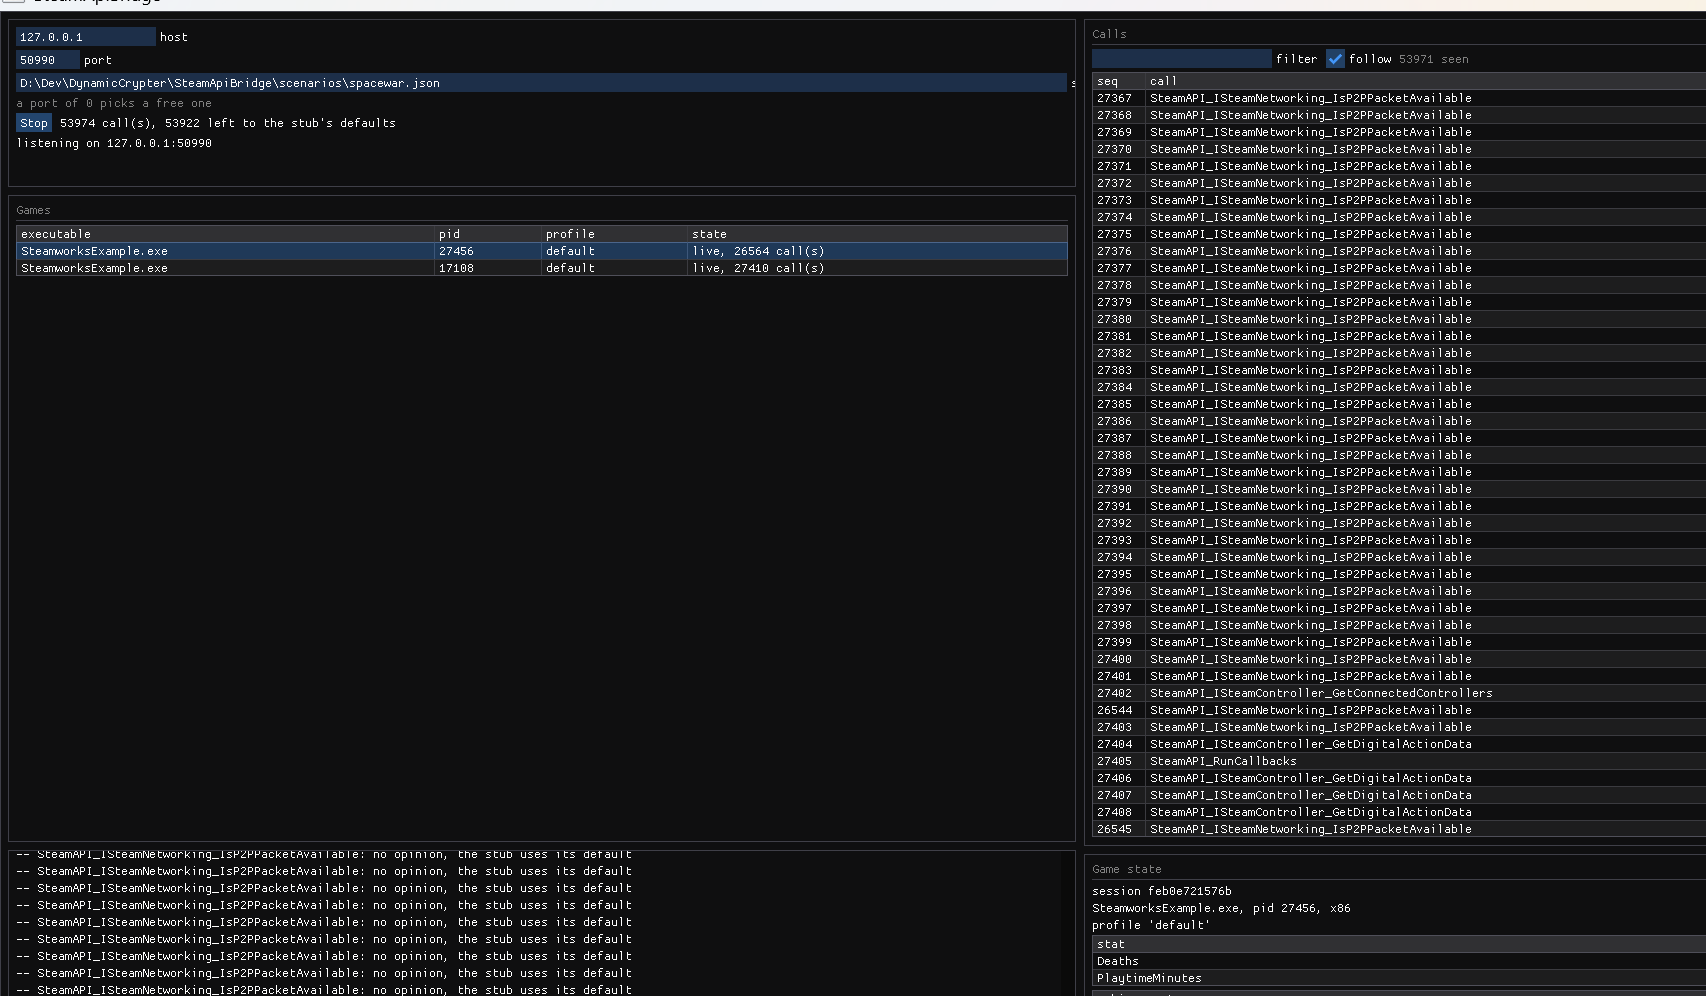
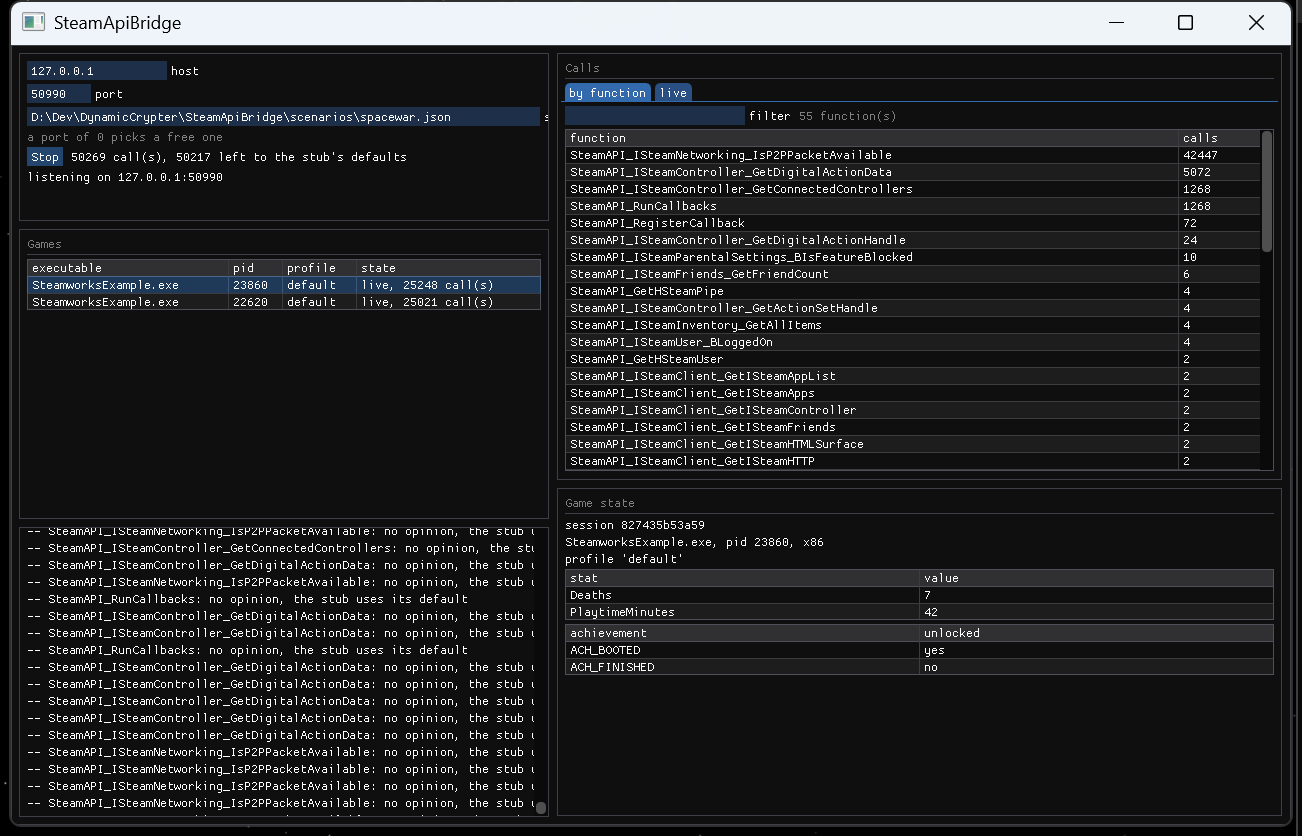
Count the calls in the window, beside the list of them
The live list is the wrong first view of a game that polls. Spacewar at its menu made 60,634 calls in fifteen seconds, and 42,447 of them were one call asking whether a P2P packet had arrived - so the calls worth reading were a page of scrolling apart from each other. The Calls panel has two tabs now. "by function" counts the calls the game has made, most-called first, with the answered / left-to-the-stub split and the mean time in the row's tooltip rather than in columns of their own; "live" is the call-by-call list exactly as it was. One filter box serves both.

The count is kept as the calls arrive rather than recomputed from the history every frame: a tally that walks the history is a tally that gets slower the longer the game runs, and this history grows without bound. It is re-sorted only when a count changes, so the window is not sorting a few hundred names sixty times a second to draw the same order.

The front-page image is a real Spacewar run again, this time with the tabs - the one it replaces showed a panel that no longer exists - and the README says what the two views are.

Changed region(s): [[0.0, 0.0, 1.0, 1.0], [0.3072, 0.622, 0.3994, 0.6842], [0.3072, 0.7153, 0.3379, 0.7464]]

diff --git a/src/gui_main.cpp b/src/gui_main.cpp
@@ -14,6 +14,12 @@
 //  whatever is left, which means no panel can be clipped by the window size or
 //  by the display's scaling.
 //
+//  The calls have two views, because one game in its own loop is enough to make
+//  the other one useless: a frame that polls a call that nobody answers buries
+//  everything else, and the first thing anyone wants is the shape rather than
+//  the sequence. "by function" counts what the game asks for, most-called first;
+//  "live" is the call-by-call list it scrolls past.
+//
 //  Build it with -DSTEAMBRIDGE_BUILD_GUI=ON (see README, "The live view").
 // ---------------------------------------------------------------------------
 
@@ -21,6 +27,7 @@
 #include <cstddef>
 #include <cstdint>
 #include <cstdio>
+#include <map>
 #include <memory>
 #include <mutex>
 #include <string>
@@ -79,6 +86,18 @@ void panel_header(const char* title) {
     ImGui::TextDisabled("%s", title);
     ImGui::Separator();
 }
+
+// How often one call has been seen, and how much of it was answered. Kept as the
+// calls arrive rather than counted from the history, because the history grows
+// without bound while a game runs - and the panel that shows this is the one
+// that has to stay usable when a game has made tens of thousands of calls.
+struct CallTally {
+    std::size_t calls = 0;
+    std::size_t answered = 0;
+    double total_ms = 0.0;
+};
+
+using CallTallies = std::map<std::string, CallTally>;
 
 // ---------------------------------------------------------------------------
 //  The window's state: the server, what it has told us so far, and what the
@@ -209,6 +228,9 @@ private:
         // A new server means a new history.
         _calls.clear();
         _shown.clear();
+        _tallies.clear();
+        _function_order.clear();
+        _tallies_dirty = false;
         _seen = 0;
         _games.clear();
         _selected.clear();
@@ -241,7 +263,16 @@ private:
         std::vector<CallRecord> fresh = _server->records_since(_seen);
         _seen = _server->record_count();
         for (CallRecord& record : fresh) {
+            CallTally& tally = _tallies[record.call];
+            ++tally.calls;
+            if (record.answered) {
+                ++tally.answered;
+            }
+            tally.total_ms += record.ms;
             _calls.push_back(std::move(record));
+        }
+        if (!fresh.empty()) {
+            _tallies_dirty = true;
         }
     }
 
@@ -320,8 +351,92 @@ private:
         }
     }
 
+    // Two views of the same calls, because one game in its own loop is enough to
+    // make one of them useless: a call somebody polls every frame buries every
+    // other call in the list, so the count comes first and the sequence second.
     void draw_calls() {
         panel_header("Calls");
+        if (ImGui::BeginTabBar("call_views")) {
+            if (ImGui::BeginTabItem("by function")) {
+                draw_calls_by_function();
+                ImGui::EndTabItem();
+            }
+            if (ImGui::BeginTabItem("live")) {
+                draw_calls_live();
+                ImGui::EndTabItem();
+            }
+            ImGui::EndTabBar();
+        }
+    }
+
+    // Every call the game has made, one row per name. A list of a hundred calls
+    // is a profile, and the end worth reading is the top, so the order is by how
+    // often each was asked for.
+    void draw_calls_by_function() {
+        ImGui::SetNextItemWidth(180);
+        _filter.Draw("filter");
+        ImGui::SameLine();
+        ImGui::TextDisabled("%zu function(s)", _tallies.size());
+
+        // Sorted when the counts change rather than every frame, so a game that
+        // has flooded the history does not make the window sort it sixty times a
+        // second to draw the same order.
+        if (_tallies_dirty) {
+            _tallies_dirty = false;
+            _function_order.clear();
+            _function_order.reserve(_tallies.size());
+            for (const CallTallies::value_type& entry : _tallies) {
+                _function_order.push_back(&entry);
+            }
+            // A map hands these back in name order, which is not the order this
+            // panel is for; the name settles a tie so rows do not swap places
+            // between frames while their counts are equal.
+            std::sort(
+                _function_order.begin(), _function_order.end(),
+                [](const CallTallies::value_type* left, const CallTallies::value_type* right) {
+                    if (left->second.calls != right->second.calls) {
+                        return left->second.calls > right->second.calls;
+                    }
+                    return left->first < right->first;
+                });
+        }
+
+        const ImGuiTableFlags flags =
+            ImGuiTableFlags_Borders | ImGuiTableFlags_RowBg | ImGuiTableFlags_ScrollY;
+        if (ImGui::BeginTable("by_function", 2, flags, ImVec2(0, -1))) {
+            ImGui::TableSetupScrollFreeze(0, 1);
+            ImGui::TableSetupColumn("function", ImGuiTableColumnFlags_WidthStretch, 3.0f);
+            ImGui::TableSetupColumn("calls", ImGuiTableColumnFlags_WidthFixed, 72.0f);
+            ImGui::TableHeadersRow();
+
+            // No clipper here, unlike the live list: the rows are the distinct
+            // calls the game has made - a few dozen for a game that polls - where
+            // that list is every call there has ever been.
+            for (const CallTallies::value_type* entry : _function_order) {
+                if (!_filter.PassFilter(entry->first.c_str())) {
+                    continue;
+                }
+                ImGui::TableNextRow();
+                ImGui::TableNextColumn();
+                ImGui::TextUnformatted(entry->first.c_str());
+                if (ImGui::IsItemHovered()) {
+                    const CallTally& tally = entry->second;
+                    ImGui::SetTooltip("%zu answered, %zu left to the stub\nmean %.3f ms",
+                                      tally.answered, tally.calls - tally.answered,
+                                      tally.calls == 0u
+                                          ? 0.0
+                                          : tally.total_ms / static_cast<double>(tally.calls));
+                }
+                ImGui::TableNextColumn();
+                ImGui::Text("%zu", entry->second.calls);
+            }
+            ImGui::EndTable();
+        }
+    }
+
+    // The calls in the order they were made, which is where a scenario or a
+    // session's state gets read back.
+    void draw_calls_live() {
         ImGui::SetNextItemWidth(180);
         const bool filter_changed = _filter.Draw("filter");
         ImGui::SameLine();
@@ -477,6 +592,11 @@ private:
     std::size_t _seen = 0;
     std::vector<CallRecord> _calls;
     std::vector<std::size_t> _shown;
+    // What the "by function" view draws, and the order it draws it in: pointers
+    // into the map, which a node-based container keeps valid as calls arrive.
+    CallTallies _tallies;
+    std::vector<const CallTallies::value_type*> _function_order;
+    bool _tallies_dirty = false;
     std::vector<SessionSnapshot> _games;
     std::string _selected;
 

diff --git a/README.md b/README.md
@@ -55,8 +55,11 @@ were left to the game's own defaults.
 
 * **Games** - each running game, the profile it was matched to, and whether it is still connected. Two
   copies of one game can run at once: each gets its own session and its own row here.
-* **Calls** - every Steam call the game makes, what answered it, and how long it took. `via / ms`
-  says where the answer came from: your scenario, the game's session state, or nobody.
+* **Calls** - two views of the same calls, both narrowed by the filter box at the top. **by function**
+  counts them, most-called first: a game that polls one call every frame buries everything else in a
+  list, and this is the view that stays readable. **live** is the call-by-call list, where `via / ms`
+  says where each answer came from - your scenario, the game's session state, or nobody - and how
+  long it took.
 * **Game state** - who the game thinks it is talking to: app id, Steam id, persona, language, and the
   stats and achievements it has been told about. Read-only for now.
 
